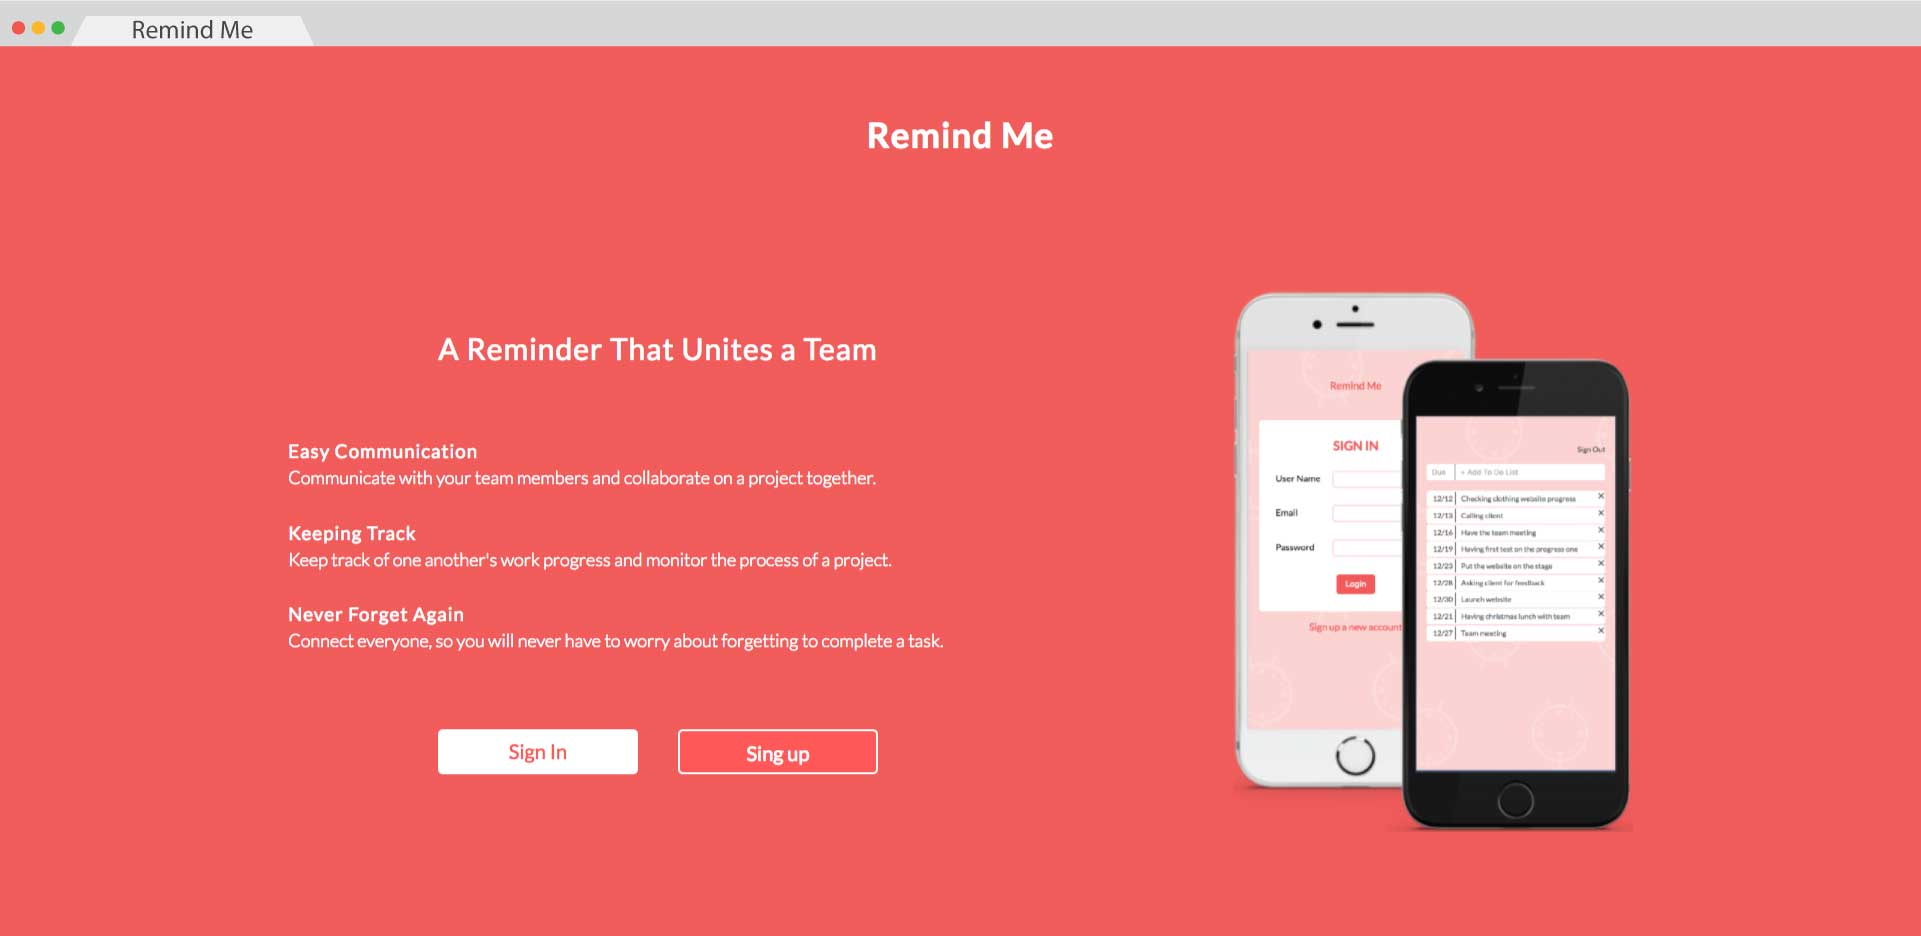
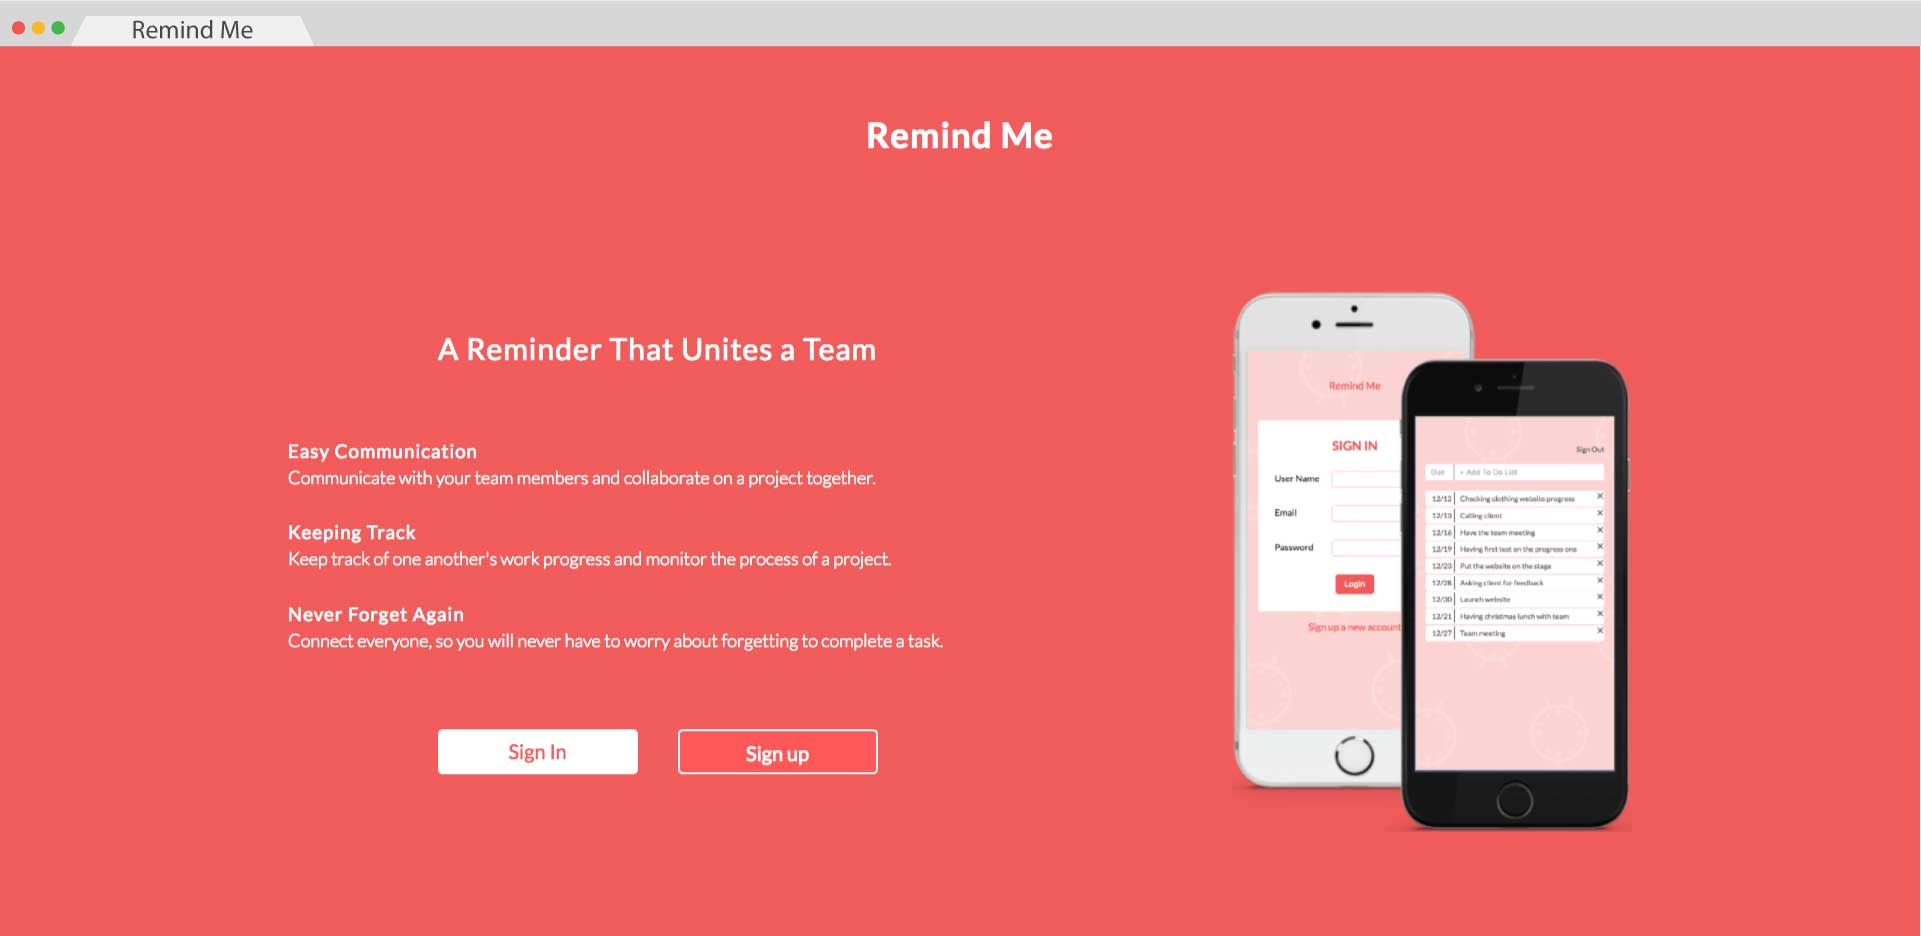
change work remindme imgs

diff --git a/about.html b/about.html
@@ -69,7 +69,7 @@
                         </div>
                         <div id="intro">
                             <div class="intro-description"> 
-                                <p>I'm a fron end web develoer and designer who is proficient with <strong>HTML, CSS, JavaScript, jQuery, AngularJS, PHP, MySQL, Git, Wordpress </strong>and my design software applications such as <strong>Photoshop, Illustrator, and InDesign.</strong></p>
+                                <p>I'm a front end develoer and designer who is proficient with <strong>HTML, CSS, JavaScript, jQuery, AngularJS, PHP, MySQL, Git, Wordpress </strong>and my design software applications such as <strong>Photoshop, Illustrator, and InDesign.</strong></p>
 
                                 <p>I enjoy challenges, teamwork, and creative environments. Under the wings of Angel, that’s where you will find excellence and brilliance.</p>
                             </div>

diff --git a/work/remindme.html b/work/remindme.html
@@ -83,7 +83,7 @@
 
 						<div class="device">
 							<div class="device-display">
-								<img src="../img/reminder_devices.jpg" alt="remindme-device">
+								<img src="../img/reminder_devices.png" alt="remindme-device">
 							</div>
 						</div> <!-- end device -->
 					</div> <!-- end portfolio haeder -->
